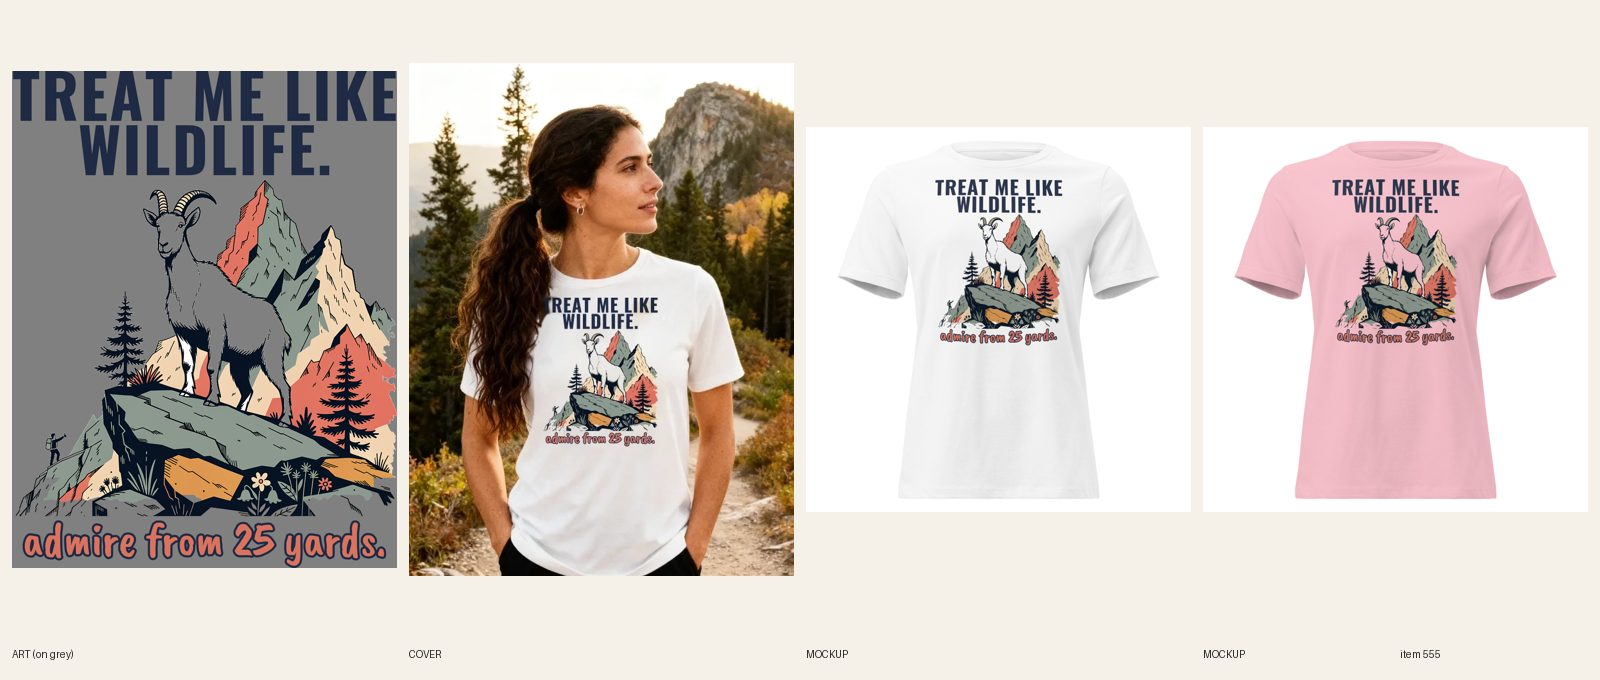
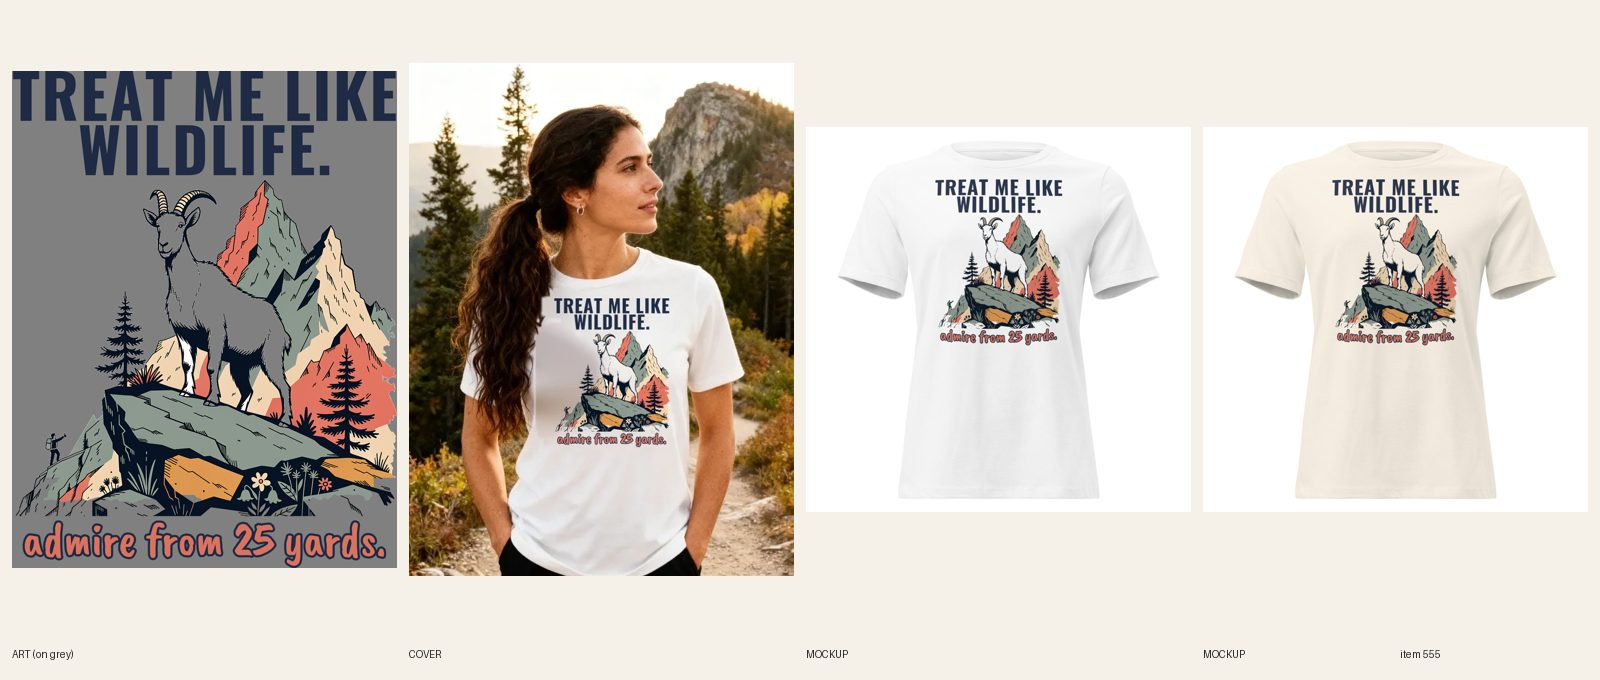
[E] review 555 cover composite, first letter clear

Changed region(s): [[0.75, 0.1853, 0.9688, 0.7412], [0.3125, 0.4324, 0.4375, 0.6794]]

diff --git a/docs/pipeline/555-hiking-tee-treat-me-like-wildlife.md b/docs/pipeline/555-hiking-tee-treat-me-like-wildlife.md
@@ -1,4 +1,4 @@
-status: REDO
+status: REVIEW
 lane: E
 type: new
 id: 555
@@ -34,3 +34,4 @@ kd: 14
 - 2026-10-18 09:16 UTC builder [E]: REDO fixed (re-sync running). (1) Light file: TREAT ME LIKE / WILDLIFE. now solid navy #1f2a44 (fill changed, no keyline) in Oswald 700, coral script kept; all six colors (White, Natural, Heather Stone, Athletic Heather, Pink, Light Violet) are light, so every variant links to the one navy-headline file (no cream file is needed). Print 2160 x 2786 px (bottom edge worn with ragged-edge.py), FW 1300 TOP 60. Printful file 1088782824; all 36 variants re-sync with FORCE, REVIEW only when Printful reports 36/36 on that id. New mockups for all 6 colors read at 400 px (headline clearly the strongest line on White and Pink); Shopify front images replaced and re-linked per color, back view kept. (2) Cover re-composited from the new print (no new fal: the $16 daily cap is spent, and a generation was not needed): the old print area erased by inpainting from the surrounding white fabric, the remaining faint smear removed with a fabric-colour fill outside the print's alpha only, the new print placed at the old print's true width (180 px on the 600 px cover), hair kept as it was; zoomed to 200%: no smear, patch or halo. docs/review/555.jpg remade. fal $0.
 - 2026-10-18 09:27 UTC builder [E]: sync 36/36 confirmed. REVIEW.
 - 2026-10-18 09:30 UTC director: REDO (stays DRAFT). The light file is fixed (navy headline, 36/36 on 1088782824, both lines read on White and Pink). One cover fix left: R6.8 / builder 9b: her hair covers most of the T in TREAT on the cover. Re-composite the print from the White mockup with the hair repainted behind her shoulder (R6.9), zoom the first letter of the top line to 200%, log 'first letter clear', remake the sheet.
+- 2026-10-18 10:15 UTC builder [E]: REDO cover: re-composited the Printful print (cover-composite2.py, from the committed pre-fix cover) with the print moved 14 px right of the ponytail so no strand crosses a letter, leftover old-T smear erased by a forced local inpaint; first letter clear (T, M, W, L, K at 200%), no halo. Sheet remade. fal $0. REVIEW.

diff --git a/docs/intake-log.md b/docs/intake-log.md
@@ -1,4 +1,6 @@
 2026-10-18 09:48 UTC — [H] Helper run: Telegram inbox empty (getUpdates returned nothing; no pause or resume). Audit: 575 products, 0 errors, 29 warnings left alone; no meta, SEO or collection fixes needed; no price errors, announcement bar already carries the holiday-sale line. Category check (one-time rule, still checking): 0 products without a category. Site freshness: womens-christmas-jolly-ish-crewneck-sweatshirt, unisex-christmas-bah-humbug-crewneck-sweatshirt, mens-christmas-bah-humbug-graphic-tee all 200. Stuck check: none (the three pipeline files that mention BUILDING are LIVE; lane locks all under 2 hours). Daily summary not due (first run after 12:00 UTC). Lock released.
+RUNNING helper since 2026-10-18 09:46 UTC
+2026-10-18 10:15 UTC — [E] REVIEW #555 cover redo: hair clear of the T of TREAT (composite)
 RUNNING lane E since 2026-10-18 09:47 UTC
 2026-10-18 09:58 UTC — [E] REVIEW #537 pump cover REDO: cover attached as slide 1 + 2 detail close-ups
 RUNNING lane B since 2026-10-18 09:40 UTC
